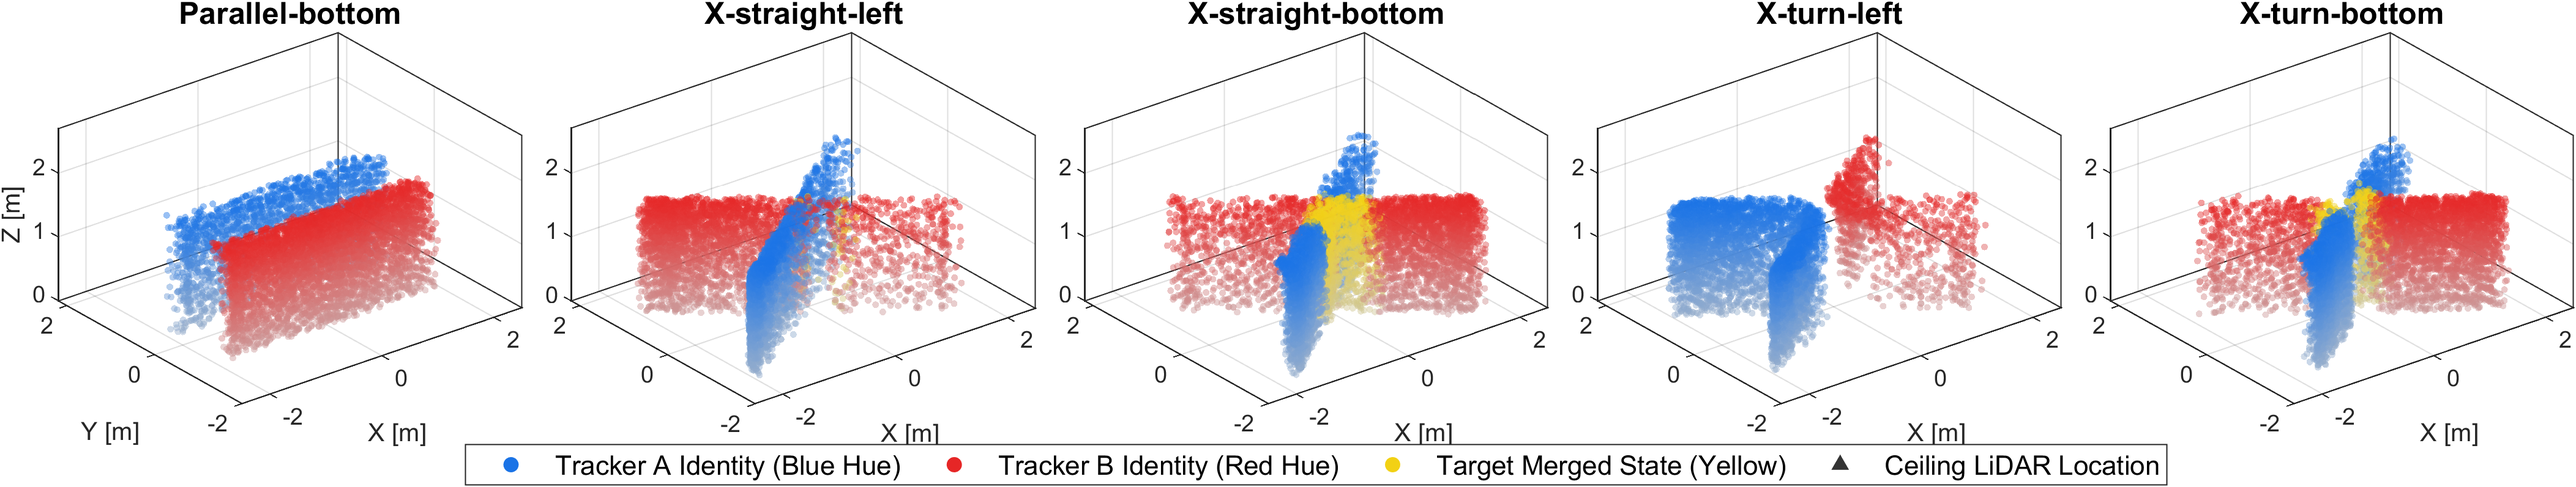
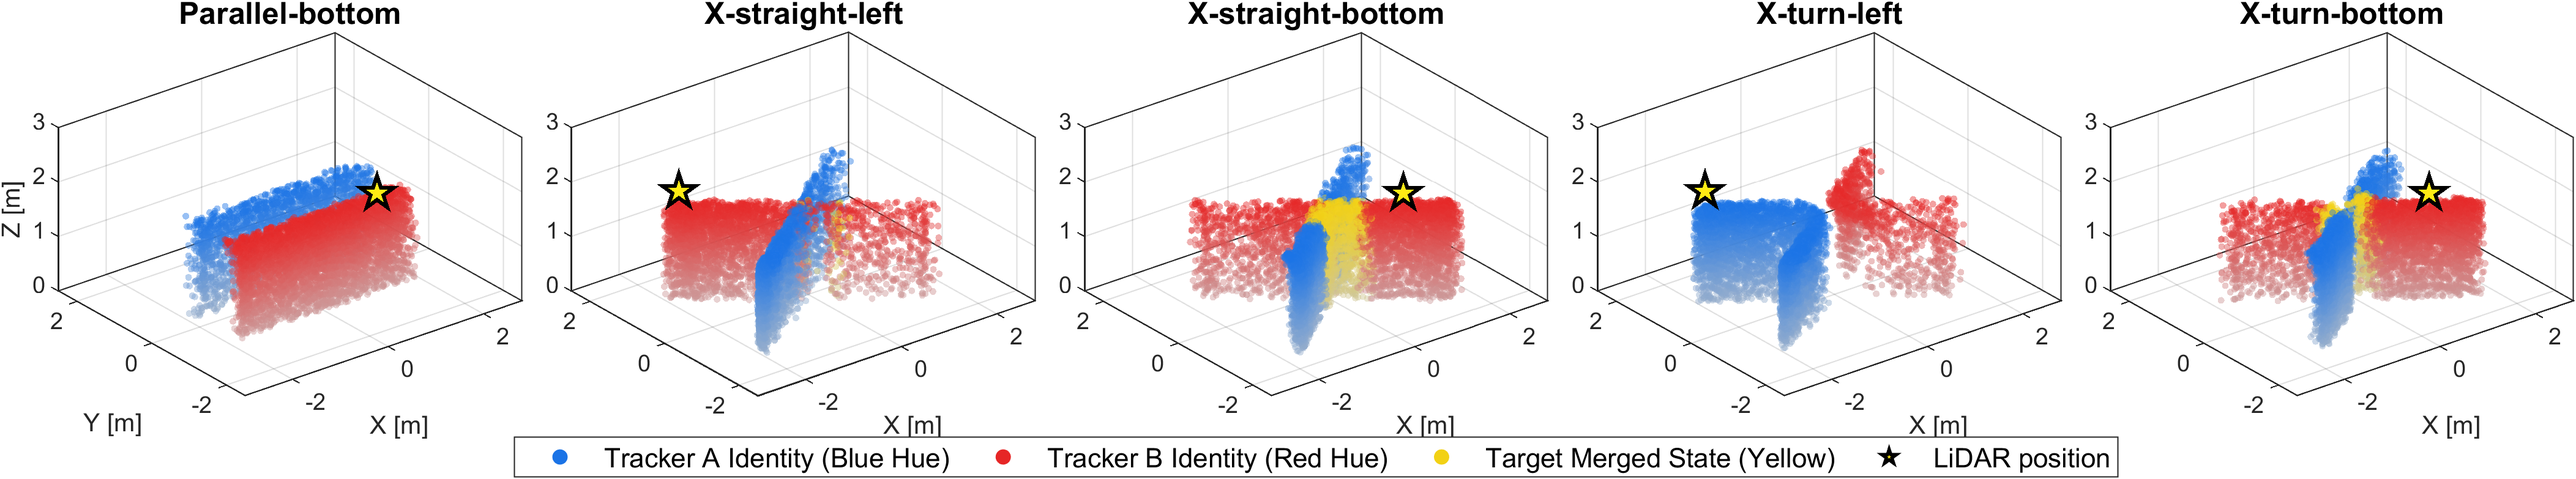
update on logbook

diff --git a/logbook.tex b/logbook.tex
@@ -410,7 +410,7 @@ By actively exploiting this property and strengthen the sparsity, the system can
 In real tracking scenarios, merging and occlusion rarely occur in isolation. High-risk cases such as X-type crossings can contain both effects at the same time. As Figure~\ref{fig:x_crossing} illustrates, this may cause ID loss and ID switching. In this figure, the 3rd and 5th plots set the sensor position downward, while the other plots set the sensor position leftward. The dotted line represents the Kalman-filter prediction, and the solid line represents the ground truth.
 
 \begin{center}
-    \includegraphics[width=1\textwidth]{Figure_5.png}
+    \includegraphics[width=1\textwidth]{Figure9.png}
     \captionof{figure}{Tracking failures, including ID loss and ID switching, during a complex X-type crossing.}
     \label{fig:x_crossing}
 \end{center}
@@ -590,7 +590,7 @@ Consequently, the minimal Cartesian volume element expands to $dV = |J_{3D}| \, 
 Both the straightforward geometric footprint approximation and the rigorous multivariate calculus derivation independently converge on the exact same mathematical truth: the Cartesian spatial scaling factor is dominated by $d^2$. This geometric distortion dictates that the point cloud surface density attenuates quadratically with range ($\rho \propto d^{-2}$). This proves that distant targets will inherently suffer from spatial sparsity, imposing a fundamental physical constraint on the sensor's resolution limit. This also relates to the room-size limit and it is not apparent compared to other factors deviating the density in a room of $10 m^2$.
 \end{contentbox}
 
-\boxitemtitle{AQ1: Nonlinear Complexity of Multi-Target Occlusion}
+\boxitemtitle{AQ2: Nonlinear Complexity of Multi-Target Occlusion}
 \begin{contentbox}
 Tracking complexity scales nonlinearly with the number of targets. While 2-target occlusion is relatively straightforward, 3 or more targets introduce mutual dependencies and overlapping shadows. If all pairwise occlusion relations are enumerated directly, the number of possible states grows very quickly.
 
@@ -630,7 +630,7 @@ $3^{N-1}$
 Assume the targets are sorted as $r_1 < r_2 < \cdots < r_N$. The closest target $T_1$ is treated as visible and starts the first shadow. Then $T_2$ is checked against the shadow of $T_1$, $T_3$ is checked against the accumulated shadow of $T_1$ and $T_2$, and so on. Therefore, only $N-1$ near-to-far visibility checks are needed. Each check has 3 possible outcomes: none, partial, and full. Therefore, the physical state complexity becomes $3^{N-1}$.
 \end{contentbox}
 
-\boxitemtitle{AQ2: Can Extra LiDAR Features Help Separate Humans and Robots?}
+\boxitemtitle{AQ3: Can Extra LiDAR Features Help Separate Humans and Robots?}
 \begin{contentbox}
 While studying LiDAR sensors and the real room setup, I found that the point cloud contains more information than only the 2D position. Since this project focuses on LiDAR-only tracking, useful features should be selected from the LiDAR data itself instead of relying on extra cameras or complicated calibration.
 
@@ -649,27 +649,57 @@ When 2 targets are close or merged in the 2D plane, extra features such as heigh
 \end{itemize}
 \end{contentbox}
 
-\boxitemtitle{AQ3: Which Tracking Model Is Suitable under Occlusion?}
+\boxitemtitle{AQ4: Which Tracking Model Is Suitable under Occlusion?}
 \begin{contentbox}
-While reading papers about occlusion-aware tracking, I found that there are many possible filtering and prediction models, such as KF, EKF, IMM, particle filter, and GMM-based tracking. The best choice depends on scene complexity, target motion, and available sensor information.
+The tracking-model test uses the same 2-target LiDAR simulation family as the main report. Two rounded human targets move through crossing and turning cases, the ceiling-mounted LiDAR is placed either at the left side or bottom side of the room, and DBSCAN provides the frame-wise measurements for a Kalman-filter tracker. The purpose is to identify when a simple tracking model is still useful and when it becomes the main source of ID error.
 
-\vspace{1.0em}
-\textbf{Core Idea:}
+\begin{center}
+    \includegraphics[width=0.95\linewidth]{Figure8.png}
+    \captionof{figure}{Tracking-model stress test under multi-target crossing and turning motion.}
+    \label{fig:aq4-tracking-model-overview}
+\end{center}
 
-A simple constant-velocity KF is suitable as a first baseline. It is fast, easy to explain, and can bridge short missing-measurement periods. However, when the target turns sharply, is fully occluded for a long time, or has multiple possible future positions, a simple KF may not be enough.
+The result in Figure~\ref{fig:aq4-tracking-model-overview} shows that a standard constant-velocity KF is acceptable for short, smooth motion gaps, but it becomes fragile near intersections. At close range, clustering may merge the two point clouds, so the tracker receives either an ambiguous centroid or no reliable measurement.
 
-\vspace{0.8em}
-\textbf{Possible Tracking Models:}
-\begin{itemize}[leftmargin=*]
-    \item \textbf{KF:} Suitable for simple and smooth motion.
-    \item \textbf{EKF:} Useful when the motion or measurement model becomes nonlinear.
-    \item \textbf{IMM:} Useful when the target can switch between motion modes, such as walking straight, stopping, and turning.
-    \item \textbf{Particle Filter:} Useful for severe occlusion or multi-hypothesis tracking.
-    \item \textbf{GMM:} Useful when 1 merged cluster may actually contain 2 targets.
-\end{itemize}
+\begin{center}
+    \includegraphics[width=0.95\linewidth]{Figure10.png}
+    \captionof{figure}{Compact summary of KF prediction behavior during the high-risk crossing interval.}
+    \label{fig:aq4-kf-stress-summary}
+\end{center}
+
+Figure~\ref{fig:aq4-kf-stress-summary} further supports the same conclusion: prediction can bridge a short missing interval, but long merge or occlusion periods require stronger association logic. EKF, IMM, particle filtering, or GMM-based tracking should be compared when the motion contains turning, stopping, or multiple possible future positions.
 \end{contentbox}
 
-\boxitemtitle{AQ4: Can an Elliptical Human Model Improve Multi-Target Boundary Analysis?}
+\boxitemtitle{AQ5: What Do the Extended X-Turn Experiments Reveal?}
+\begin{contentbox}
+This experiment focuses on the X-turn-bottom case. Two targets approach the crossing region, make nonlinear turns, and pass through the closest-distance interval under an OSDome-like LiDAR at $H=2.7~\mathrm{m}$. The setup uses 50 frames at $0.1~\mathrm{s}$ per frame, target radius $0.25~\mathrm{m}$, range-dependent sparsity, gait oscillation, and DBSCAN with $\epsilon=0.22~\mathrm{m}$ and $MinPts=14$.
+
+\begin{center}
+    \includegraphics[width=0.95\linewidth]{Figure11.png}
+    \captionof{figure}{X-turn trajectory response showing KF prediction error around the nonlinear maneuver.}
+    \label{fig:aq5-xturn-kf}
+\end{center}
+
+Figure~\ref{fig:aq5-xturn-kf} shows the main limitation of a purely linear KF. The constant-velocity assumption predicts forward inertia, so the estimated state can lag or overshoot when the target turns sharply. This problem is most visible near the crossing point, where the measurements are also least reliable because the two targets are close.
+
+\begin{center}
+    \includegraphics[width=0.95\linewidth]{Figure12.png}
+    \captionof{figure}{Visibility and point-quality changes during the same close-interaction experiment.}
+    \label{fig:aq5-visibility-quality}
+\end{center}
+
+Figure~\ref{fig:aq5-visibility-quality} explains why the tracking failure is not only a filter problem. The point cloud depends strongly on the LiDAR viewpoint. A ceiling or top-side view can preserve more planar separation, while a side or bottom view can create larger geometric shadows. When one target blocks the other, the rear target receives fewer valid points and the measurement confidence drops.
+
+\begin{center}
+    \includegraphics[width=0.95\linewidth]{Figure13.png}
+    \captionof{figure}{3D tracker-assigned point clouds showing view-dependent sparsity, shadows, and merged states.}
+    \label{fig:aq5-3d-viewpoint}
+\end{center}
+
+Figure~\ref{fig:aq5-3d-viewpoint} summarizes the system-level result. LiDAR does not observe the full object surface; it mainly sees the sensor-facing side and misses regions behind the first visible target. Therefore, the tracker should treat LiDAR placement as a design variable. The tracking model, clustering parameters, and 3-Voter state logic should be tuned together for the chosen installation viewpoint.
+\end{contentbox}
+
+\boxitemtitle{AQ6: Can an Elliptical Human Model Improve Multi-Target Boundary Analysis?}
 \begin{contentbox}
 In the current simulation, each person is simplified as a circular or cylindrical object. This is useful as a baseline. However, a real human body is not perfectly circular in the horizontal plane. From a top-view LiDAR perspective, the human footprint is usually closer to an anisotropic shape with different length and width.
 
@@ -686,25 +716,25 @@ Instead of using 1 fixed radius in all directions, the human target can be repre
 \end{itemize}
 \end{contentbox}
 
-\boxitemtitle{AQ5: Can the "Bubble Effect" be Leveraged as an Active Strategy to Prevent Cluster Merging?}
+\boxitemtitle{AQ7: Can the ``Bubble Effect'' be Leveraged as an Active Strategy to Prevent Cluster Merging?}
 \begin{contentbox}
-The view-dependent "Bubble Effect" can be used as a possible strategy for delaying DBSCAN cluster merging. The key idea is simple: when the point cloud becomes sparse near the contact area between two targets, the low-density gap can help the tracker keep two IDs separated for a longer time.
+The view-dependent ``Bubble Effect'' can be used as a possible strategy for delaying DBSCAN cluster merging. The key idea is simple: when the point cloud becomes sparse near the contact area between two targets, the low-density gap can help the tracker keep two IDs separated for a longer time.
 
 \vspace{0.8em}
 \textbf{1. Natural Bubble Buffer}
 \\
-The natural bubble buffer appears when two targets approach each other but the LiDAR returns near their facing boundaries remain sparse. As shown in \textbf{Figure 6}, DBSCAN depends on local point density, controlled by the search radius $\epsilon$ and the minimum neighbor count $MinPts$. If the gap between the two point clouds is still sparse, the clusters may stay separated even when the physical targets are close. This delays the ID merge and creates a short protection zone before contact.
+The natural bubble buffer appears when two targets approach each other but the LiDAR returns near their facing boundaries remain sparse. As shown in Figure~\ref{fig:aq7-natural-bubble}, DBSCAN depends on local point density, controlled by the search radius $\epsilon$ and the minimum neighbor count $MinPts$. If the gap between the two point clouds is still sparse, the clusters may stay separated even when the physical targets are close. This delays the ID merge and creates a short protection zone before contact.
 
 \begin{center}
     \includegraphics[width=0.95\linewidth]{Figure6.png}
     \captionof{figure}{Natural bubble buffer caused by sparse points near the merging boundary.}
-    \label{fig:aq5-natural-bubble}
+    \label{fig:aq7-natural-bubble}
 \end{center}
 
 \vspace{0.8em}
 \textbf{2. Three Tested Buffer Models}
 \\
-The anisotropy test compares 1 baseline with 3 buffer-strengthening models. The baseline is the normal range-decay simulation and is used only for comparison. The 3 active models match the labels in \textbf{Figure 7}: \textbf{Power-law}, \textbf{Sigmoid}, and \textbf{Density}.
+The anisotropy test compares 1 baseline with 3 buffer-strengthening models. The baseline is the normal range-decay simulation and is used only for comparison. The 3 active models shown in Figure~\ref{fig:aq7-engineered-buffer} are \textbf{Power-law}, \textbf{Sigmoid}, and \textbf{Density}.
 
 Let $m_0$ be the minimum keep probability. Let $s \in [0,1]$ be the face score, where larger $s$ means that a point faces the LiDAR more directly.
 
@@ -713,12 +743,12 @@ Let $m_0$ be the minimum keep probability. Let $s \in [0,1]$ be the face score, 
     \begin{equation}
     P_{\text{keep}} = m_0 + (1 - m_0)s^p
     \end{equation}
-    
+
     \item \textbf{Sigmoid face-score model.} This method uses the same face score but applies a soft threshold. Points below the threshold are reduced more strongly, while points above it are mostly preserved:
     \begin{equation}
     P_{\text{keep}} = m_0 + (1 - m_0)\frac{1}{1+\exp[-k_s(s-s_0)]}
     \end{equation}
-    
+
     \item \textbf{Density self-reinforcement model.} This method uses local point density from neighbor distance. For each point, $d_{k_n}$ is the distance to its $k_n$-th nearest neighbor, and $\rho_{\text{norm}}$ is the normalized density score:
     \begin{equation}
     \rho = \frac{1}{d_{k_n}+\varepsilon}, \qquad
@@ -743,15 +773,15 @@ Let $m_0$ be the minimum keep probability. Let $s \in [0,1]$ be the face score, 
                   & $m_0$ & minimum keep probability & $0.16$ \\ \hline
 \end{tabular}
 \caption{Parameters used by the Power-law, Sigmoid, and Density buffer models.}
-\label{tab:aq5_parameters}
+\label{tab:aq7_parameters}
 \end{table}
 
-Figure 7 compares the baseline with the 3 active models. The result shows stable behavior under the tested settings and random structural noise ($\sigma = 0.015\text{ m}$). The active models increase the bubble gap, which means DBSCAN merging is delayed.
+Figure~\ref{fig:aq7-engineered-buffer} compares the baseline with the 3 active models. The result shows stable behavior under the tested settings and random structural noise ($\sigma = 0.015\text{ m}$). The active models increase the bubble gap, which means DBSCAN merging is delayed.
 
 \begin{center}
     \includegraphics[width=0.95\linewidth]{Figure7.png}
     \captionof{figure}{Bubble-buffer comparison for Baseline, Power-law, Sigmoid, and Density models.}
-    \label{fig:aq5-engineered-buffer}
+    \label{fig:aq7-engineered-buffer}
 \end{center}
 
 \vspace{0.8em}
@@ -759,7 +789,6 @@ Figure 7 compares the baseline with the 3 active models. The result shows stable
 \\
 These models suggest that a tracking pipeline can delay premature merging by adjusting point keep probabilities before clustering. The method does not require extra hardware, but real room data are still needed because clutter, reflections, and different materials may change the bubble shape. The next step is to tune the parameters on measured data and check whether ID separation improves without losing valid target points.
 \end{contentbox}
-
 % ==========================================
 \chapter{Literature Analysis}
 % ==========================================
